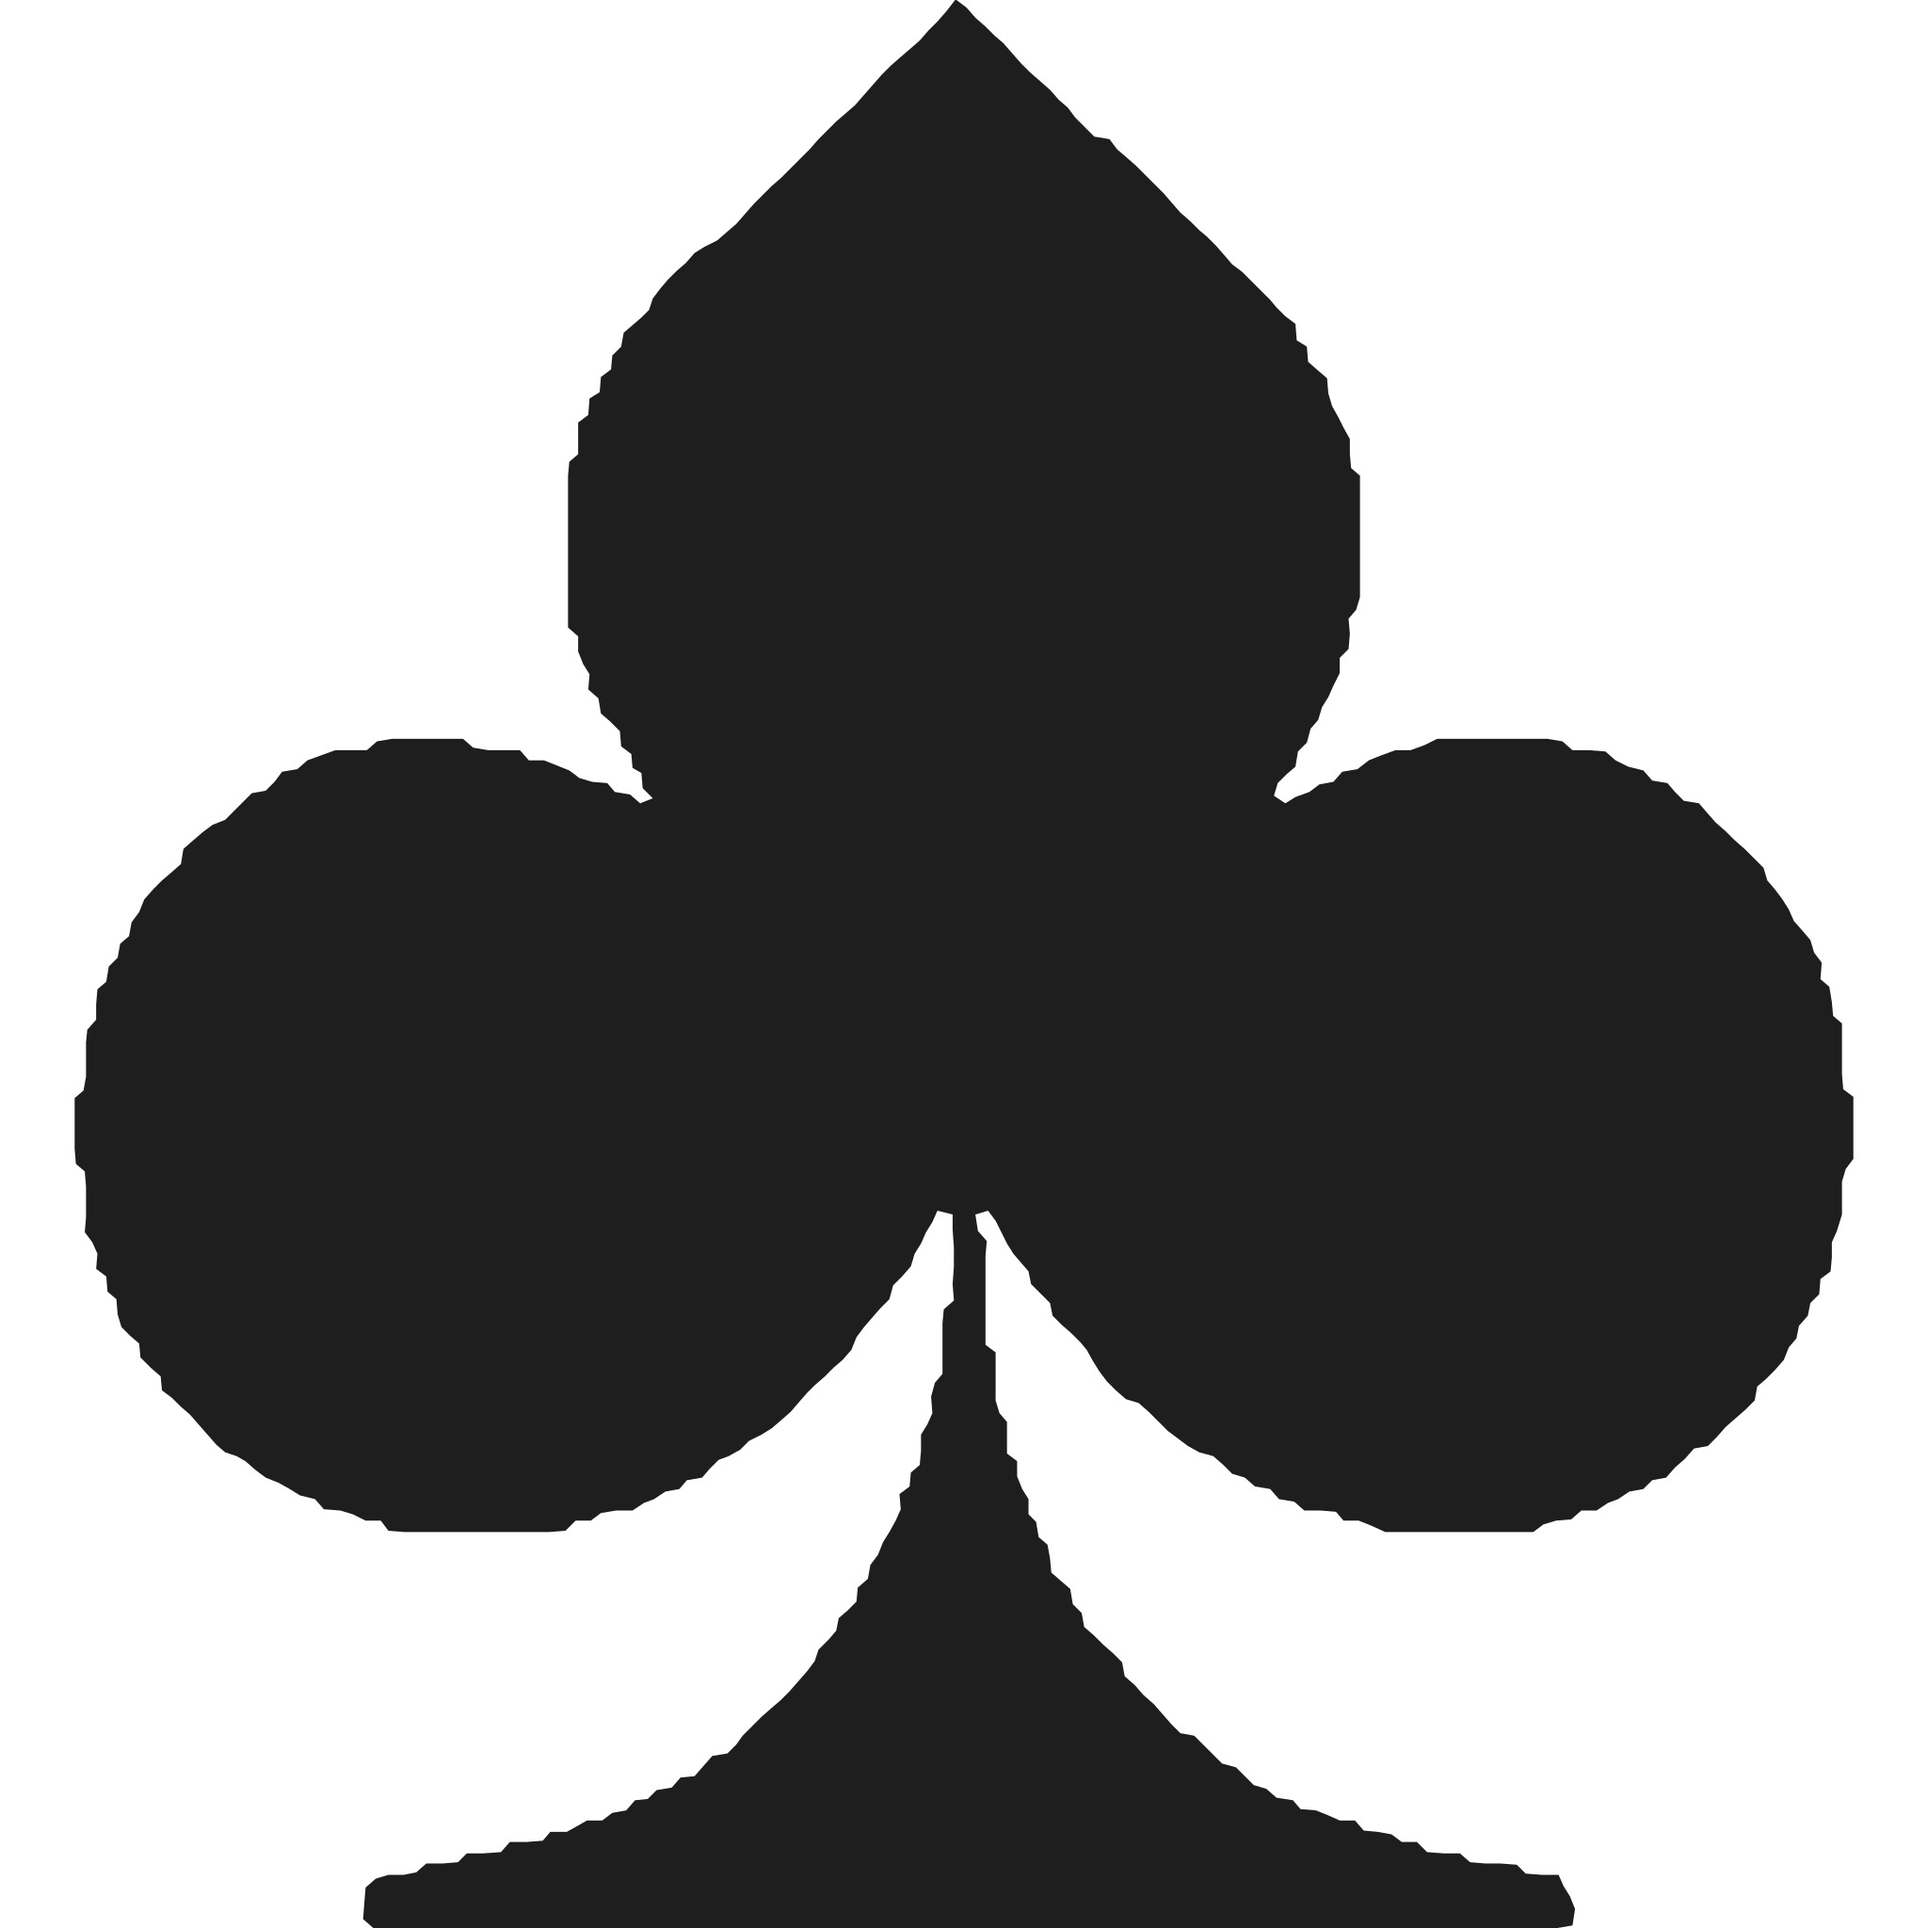
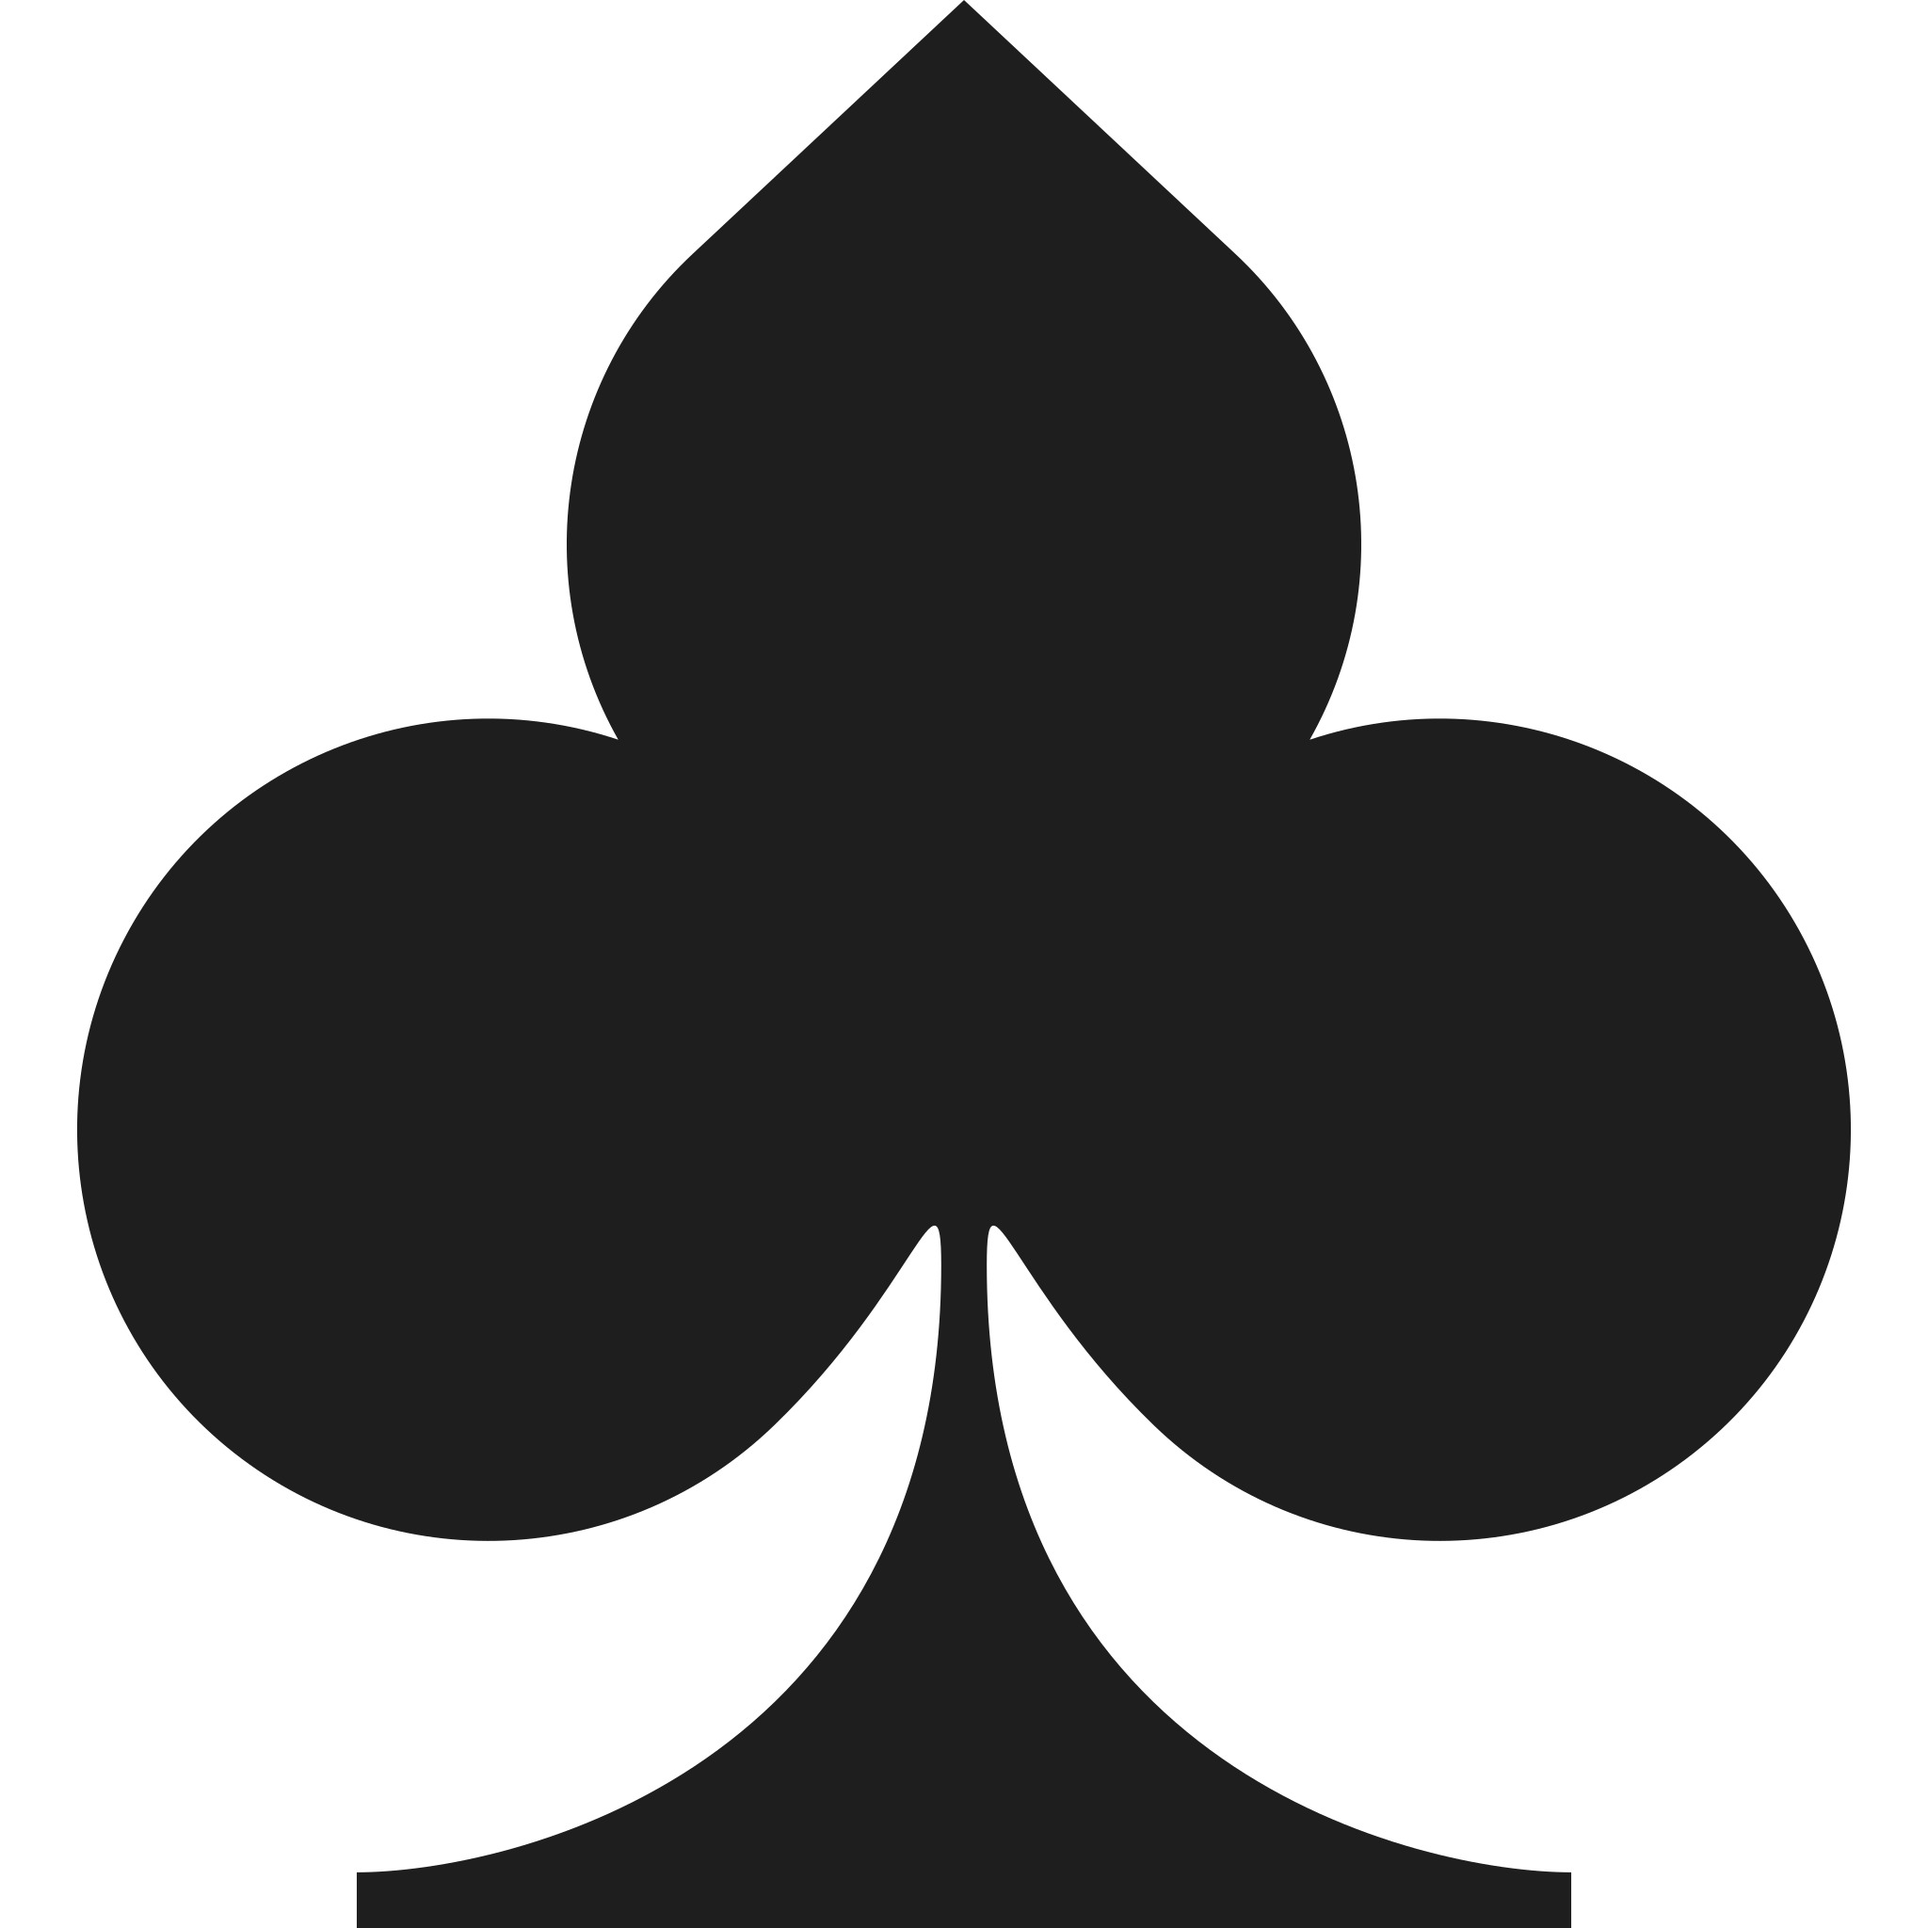
rebuild the koc mark geometrically
The old koc.svg was a pixel-staircase trace of the 180px favicon, so every
render came out jagged. Replace it with a single path built from three
circles, a tangent-line cap and a hooked, flaring stem (fit to the favicon),
and add koc/make_koc.py to regenerate the SVG and the koc_<size>.jpg renders.

diff --git a/assets/koc/make_koc.py b/assets/koc/make_koc.py
@@ -1,0 +1,98 @@
+"""Build the king-of-clubs mark (../koc.svg) from a handful of geometric pieces.
+
+The shape is three circles, a pointed cap made from the two tangent lines
+from the tip to the top circle, and a stem whose sides hook out of the side
+circles into a thin neck and then flare as cubics to a flat base.  The numbers
+below were fit to the site's original 180px favicon (apple-touch-icon.png).
+
+    python make_koc.py            # write ../koc.svg
+    python make_koc.py --jpegs    # also render koc_<size>.jpg (needs rsvg-convert + ImageMagick)
+"""
+import math, pathlib, subprocess, sys
+
+# ---- construction parameters (svg units, viewBox 152.4) ----
+AX   = 76.2                    # symmetry axis
+TIP  = 0.0                     # y of the pointed cap
+TOP  = (AX, 43.0, 31.4)        # top circle (cx, cy, r)
+SIDE = (37.6, 89.3, 32.5)      # side circles: (dx from axis, cy, r)
+NECK_Y, NECK_HALF = 100.0, 1.8 # the stem is thinnest here
+FLARE = (40, 12)               # handle lengths: straight down from the neck, straight in from the base
+BASE_Y, BASE_HALF, BASE_LIP = 152.4, 48.0, 4.4
+HOOK = (134, 15.5, 8.5)        # where the stem leaves the side circle (deg, y-down) and its two handle lengths
+FILL = "#1e1e1e"
+SIZES = (32, 64, 128, 180, 256, 512, 1024, 2048)
+
+HERE = pathlib.Path(__file__).resolve().parent
+
+
+def pt(c, deg):
+    a = math.radians(deg)
+    return (c[0] + c[2]*math.cos(a), c[1] + c[2]*math.sin(a))
+
+def ang(c, p):
+    return math.degrees(math.atan2(p[1]-c[1], p[0]-c[0])) % 360
+
+def outer_intersection(c1, c2):
+    """The intersection of two circles farther from the axis."""
+    dx, dy = c2[0]-c1[0], c2[1]-c1[1]; d = math.hypot(dx, dy)
+    a = (c1[2]**2 - c2[2]**2 + d*d) / (2*d); h = math.sqrt(c1[2]**2 - a*a)
+    mx, my = c1[0] + a*dx/d, c1[1] + a*dy/d
+    return max((mx - h*dy/d, my + h*dx/d), (mx + h*dy/d, my - h*dx/d), key=lambda q: abs(q[0]-AX))
+
+def mirror(p):
+    return (2*AX - p[0], p[1])
+
+def fmt(p):
+    return f"{p[0]:.2f},{p[1]:.2f}"
+
+def arc(c, a, b):
+    large = (ang(c, b) - ang(c, a)) % 360 > 180
+    return f"A {c[2]} {c[2]} 0 {int(large)} 1 {fmt(b)}"
+
+
+def build_svg():
+    R = (AX + SIDE[0], SIDE[1], SIDE[2]); L = (AX - SIDE[0], SIDE[1], SIDE[2])
+    t = math.degrees(math.acos(TOP[2] / (TOP[1] - TIP)))    # tangent from tip to top circle
+    Ttr, Ttl = pt(TOP, -90 + t), pt(TOP, -90 - t)
+    Qr, Ql = outer_intersection(TOP, R), outer_intersection(TOP, L)
+
+    # hook: leave the right circle along its (clockwise) tangent, arrive at the neck heading down
+    deg, u, v = HOOK
+    Sr = pt(R, deg); T = (-math.sin(math.radians(deg)), math.cos(math.radians(deg)))
+    N = (AX + NECK_HALF, NECK_Y)
+    H1, H2 = (Sr[0] + u*T[0], Sr[1] + u*T[1]), (N[0], N[1] - v)
+    # flare: vertical at the neck, horizontal at the base
+    Br = (AX + BASE_HALF, BASE_Y - BASE_LIP)
+    F1, F2 = (N[0], N[1] + FLARE[0]), (Br[0] - FLARE[1], Br[1])
+
+    d = [f"M {fmt((AX, TIP))}", f"L {fmt(Ttr)}", arc(TOP, Ttr, Qr), arc(R, Qr, Sr),
+         f"C {fmt(H1)} {fmt(H2)} {fmt(N)}", f"C {fmt(F1)} {fmt(F2)} {fmt(Br)}", f"L {fmt((Br[0], BASE_Y))}",
+         f"L {fmt(mirror((Br[0], BASE_Y)))}", f"L {fmt(mirror(Br))}",
+         f"C {fmt(mirror(F2))} {fmt(mirror(F1))} {fmt(mirror(N))}",
+         f"C {fmt(mirror(H2))} {fmt(mirror(H1))} {fmt(mirror(Sr))}",
+         arc(L, mirror(Sr), Ql), arc(TOP, Ql, Ttl), "Z"]
+    path = "\n           ".join(d)
+    return f'''<!-- Alex Alemi's king-of-clubs mark, built geometrically:
+     three circles (top r={TOP[2]} at (76.2, {TOP[1]}); sides r={SIDE[2]} at (76.2±{SIDE[0]}, {SIDE[1]})),
+     a pointed cap from the two tangent lines to (76.2, {TIP:g}), and a stem whose sides
+     hook out of the side circles into a neck at y={NECK_Y:g}, then flare to a {2*BASE_HALF:g}-wide base. -->
+<svg xmlns="http://www.w3.org/2000/svg" viewBox="0 0 152.4 152.4" width="152.4" height="152.4">
+  <path fill="{FILL}" d="{path}"/>
+</svg>
+'''
+
+
+def render_jpegs(svg_path):
+    for n in SIZES:
+        png = subprocess.run(["rsvg-convert", "-w", str(n), "-h", str(n), "-b", "white", str(svg_path)],
+                             check=True, capture_output=True).stdout
+        subprocess.run(["convert", "-", "-quality", "92", str(HERE / f"koc_{n}.jpg")], input=png, check=True)
+
+
+if __name__ == "__main__":
+    out = HERE.parent / "koc.svg"
+    out.write_text(build_svg())
+    print(f"wrote {out}")
+    if "--jpegs" in sys.argv:
+        render_jpegs(out)
+        print(f"wrote koc_{{{','.join(map(str, SIZES))}}}.jpg")
